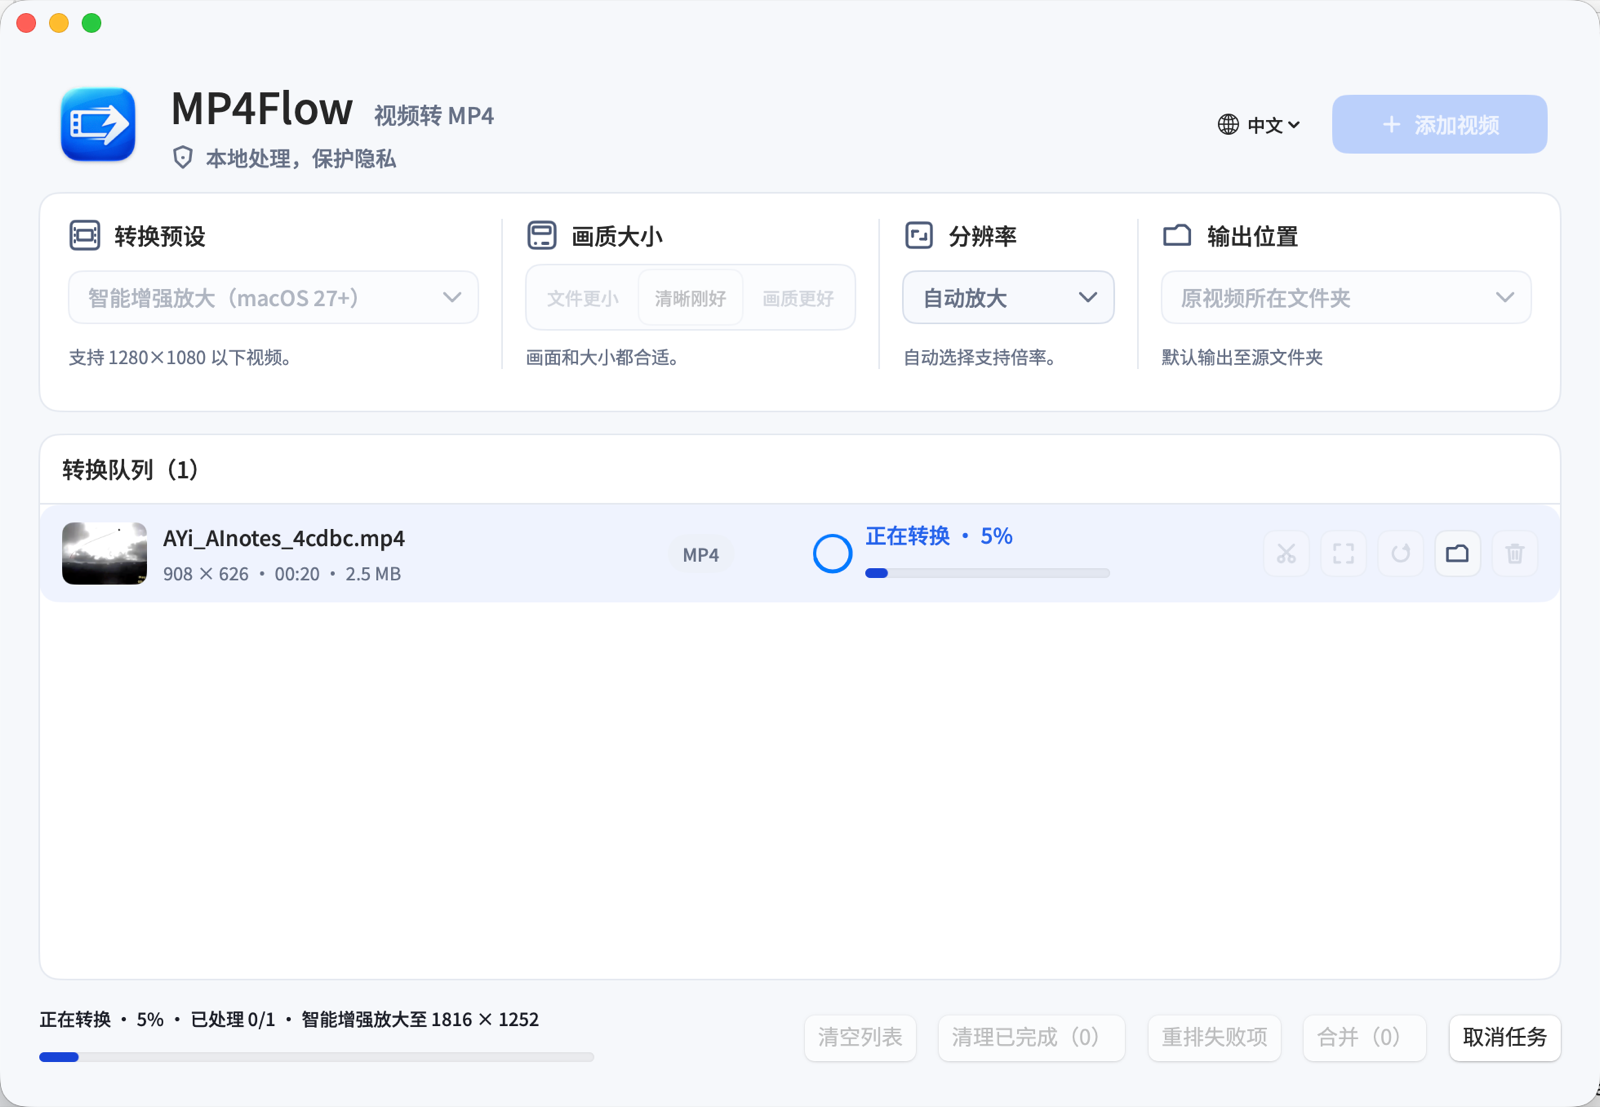
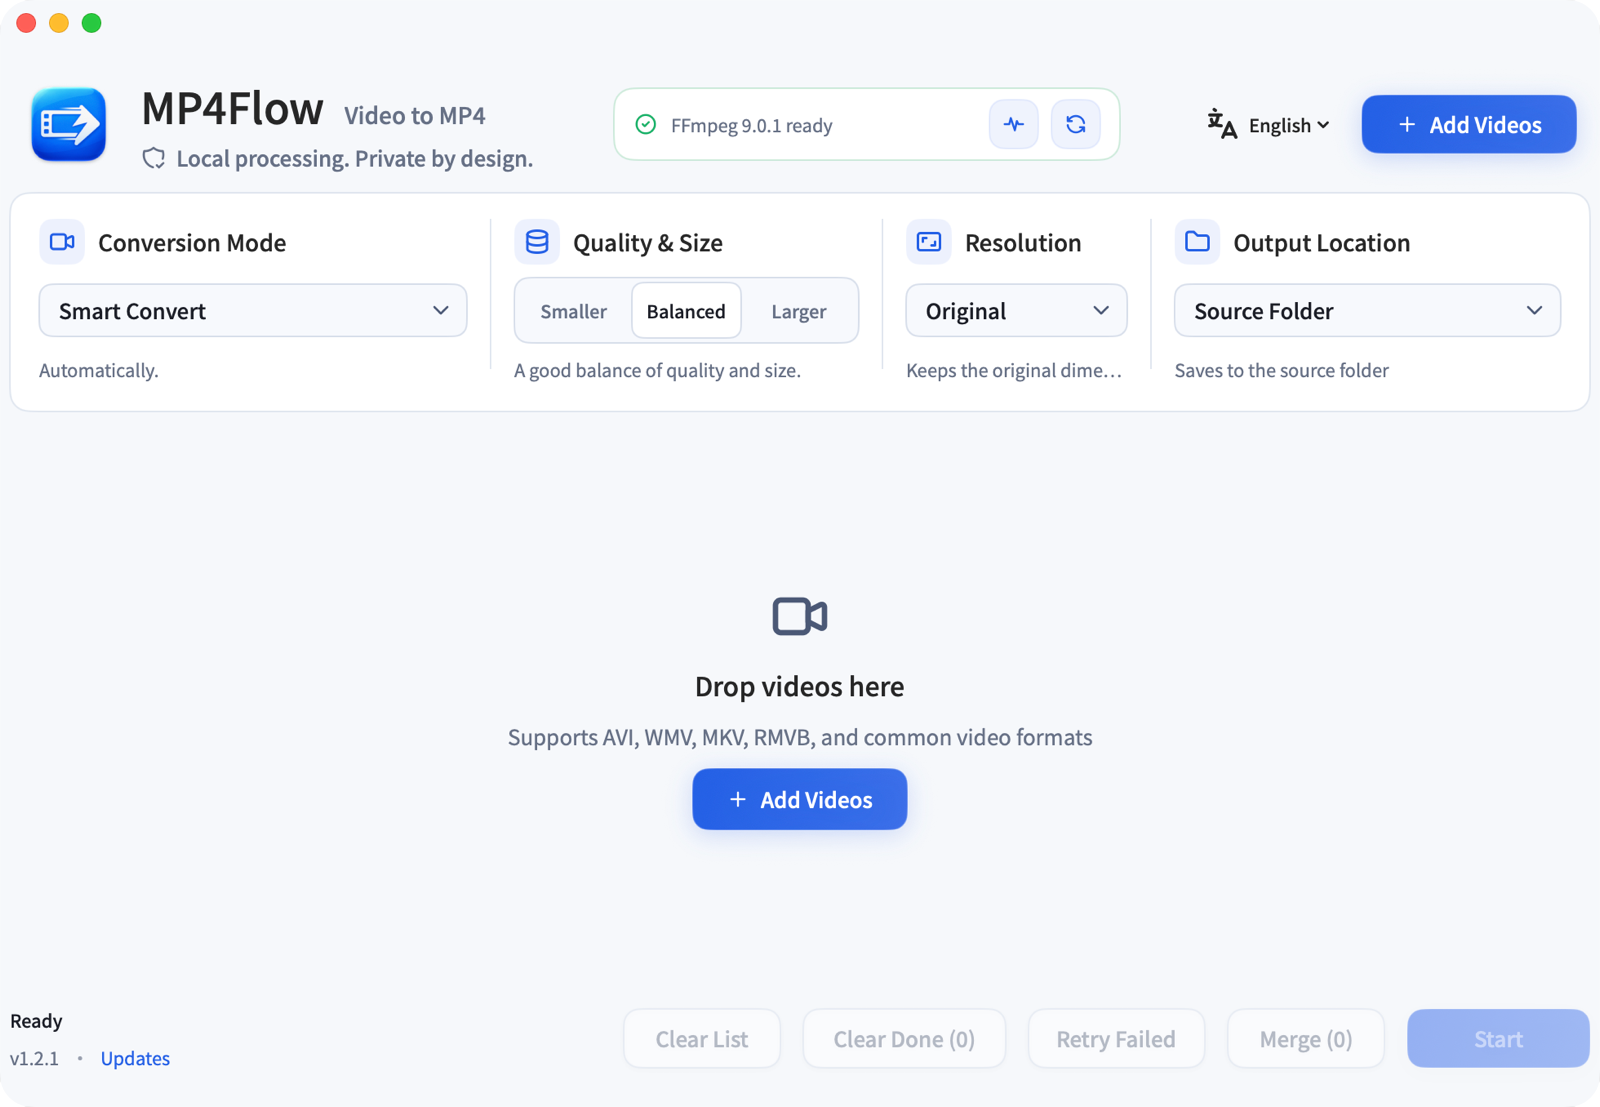
Refresh localized website and README screenshots
Publish updated localized app screenshots, sync the tri-language READMEs, and refresh the social preview cache URL.

diff --git a/website/index.html b/website/index.html
@@ -21,8 +21,8 @@
     <meta property="og:locale:alternate" content="ja_JP" />
     <meta property="og:title" content="MP4Flow｜智能转换、剪切、裁切、旋转，全部在 Mac 本地完成" />
     <meta property="og:description" content="免费开源的原生 macOS 视频转 MP4 工具。极速处理、不上传视频、不用登录。" />
-    <meta property="og:image" content="https://ixiehao.github.io/MP4Flow/assets/social-preview.jpg?v=1" />
-    <meta property="og:image:secure_url" content="https://ixiehao.github.io/MP4Flow/assets/social-preview.jpg?v=1" />
+    <meta property="og:image" content="https://ixiehao.github.io/MP4Flow/assets/social-preview.jpg?v=2" />
+    <meta property="og:image:secure_url" content="https://ixiehao.github.io/MP4Flow/assets/social-preview.jpg?v=2" />
     <meta property="og:image:type" content="image/jpeg" />
     <meta property="og:image:width" content="1280" />
     <meta property="og:image:height" content="640" />
@@ -30,7 +30,7 @@
     <meta name="twitter:card" content="summary_large_image" />
     <meta name="twitter:title" content="MP4Flow｜智能转换、剪切、裁切、旋转，全部在 Mac 本地完成" />
     <meta name="twitter:description" content="免费开源的原生 macOS 视频转 MP4 工具。极速处理、不上传视频、不用登录。" />
-    <meta name="twitter:image" content="https://ixiehao.github.io/MP4Flow/assets/social-preview.jpg?v=1" />
+    <meta name="twitter:image" content="https://ixiehao.github.io/MP4Flow/assets/social-preview.jpg?v=2" />
     <meta name="twitter:image:alt" content="MP4Flow 真实软件工作界面，展示在 Mac 本地完成的视频转换" />
     <title>MP4Flow｜智能转换、剪切、裁切、旋转的 macOS 视频转 MP4 工具</title>
     <link rel="icon" type="image/png" sizes="1024x1024" href="assets/mp4flow-app-icon.png" />

diff --git a/docs/GITHUB_METADATA.md b/docs/GITHUB_METADATA.md
@@ -16,6 +16,10 @@ of the product's public download path, not optional decoration.
 - Keep [README.md](../README.md), [README.ja.md](../README.ja.md), and
   [README.zh-CN.md](../README.zh-CN.md) equivalent in scope. English aids
   global discovery; Japanese and Chinese serve native-language users.
+- Use the matching real, localized app capture from `website/assets/` near the
+  top of each README. When screenshots change, update the website and all three
+  README image references together; keep the social card based on the English
+  capture.
 - Link the latest release rather than a versioned DMG in README text. This
   avoids leaving visitors on a stale installer after the next release.
 - Attach a `.dmg` and matching `.sha256` file to every stable release. Do not

diff --git a/README.ja.md b/README.ja.md
@@ -10,7 +10,7 @@
 
 無料、オープンソース、ローカル処理。**ログイン不要、アップロード不要、難しい設定不要。** 動画を追加し、画質を選ぶだけで Mac 上で変換できます。
 
-![MP4Flow の機能デモ](docs/assets/mp4flow-demo.gif)
+![MP4Flow の日本語画面](website/assets/mp4flow-working-screen-ja.png)
 
 ## 3ステップで始める
 

diff --git a/README.zh-CN.md b/README.zh-CN.md
@@ -10,7 +10,7 @@
 
 免费、开源、本地处理。**不用登录、不用上传、不用会看参数。** 添加视频，选择画质，在你的 Mac 上完成转换。
 
-![MP4Flow 功能演示](docs/assets/mp4flow-demo.gif)
+![MP4Flow 中文界面](website/assets/mp4flow-working-screen.png)
 
 ## 三步上手
 

diff --git a/README.md b/README.md
@@ -10,7 +10,7 @@
 
 Free, open source, and local. **No account, no upload, no codec jargon.** Add a video, choose a quality, and convert it on your Mac.
 
-![MP4Flow feature demo](docs/assets/mp4flow-demo.gif)
+![MP4Flow running in English](website/assets/mp4flow-working-screen-en.png)
 
 ## Start in 3 steps
 
